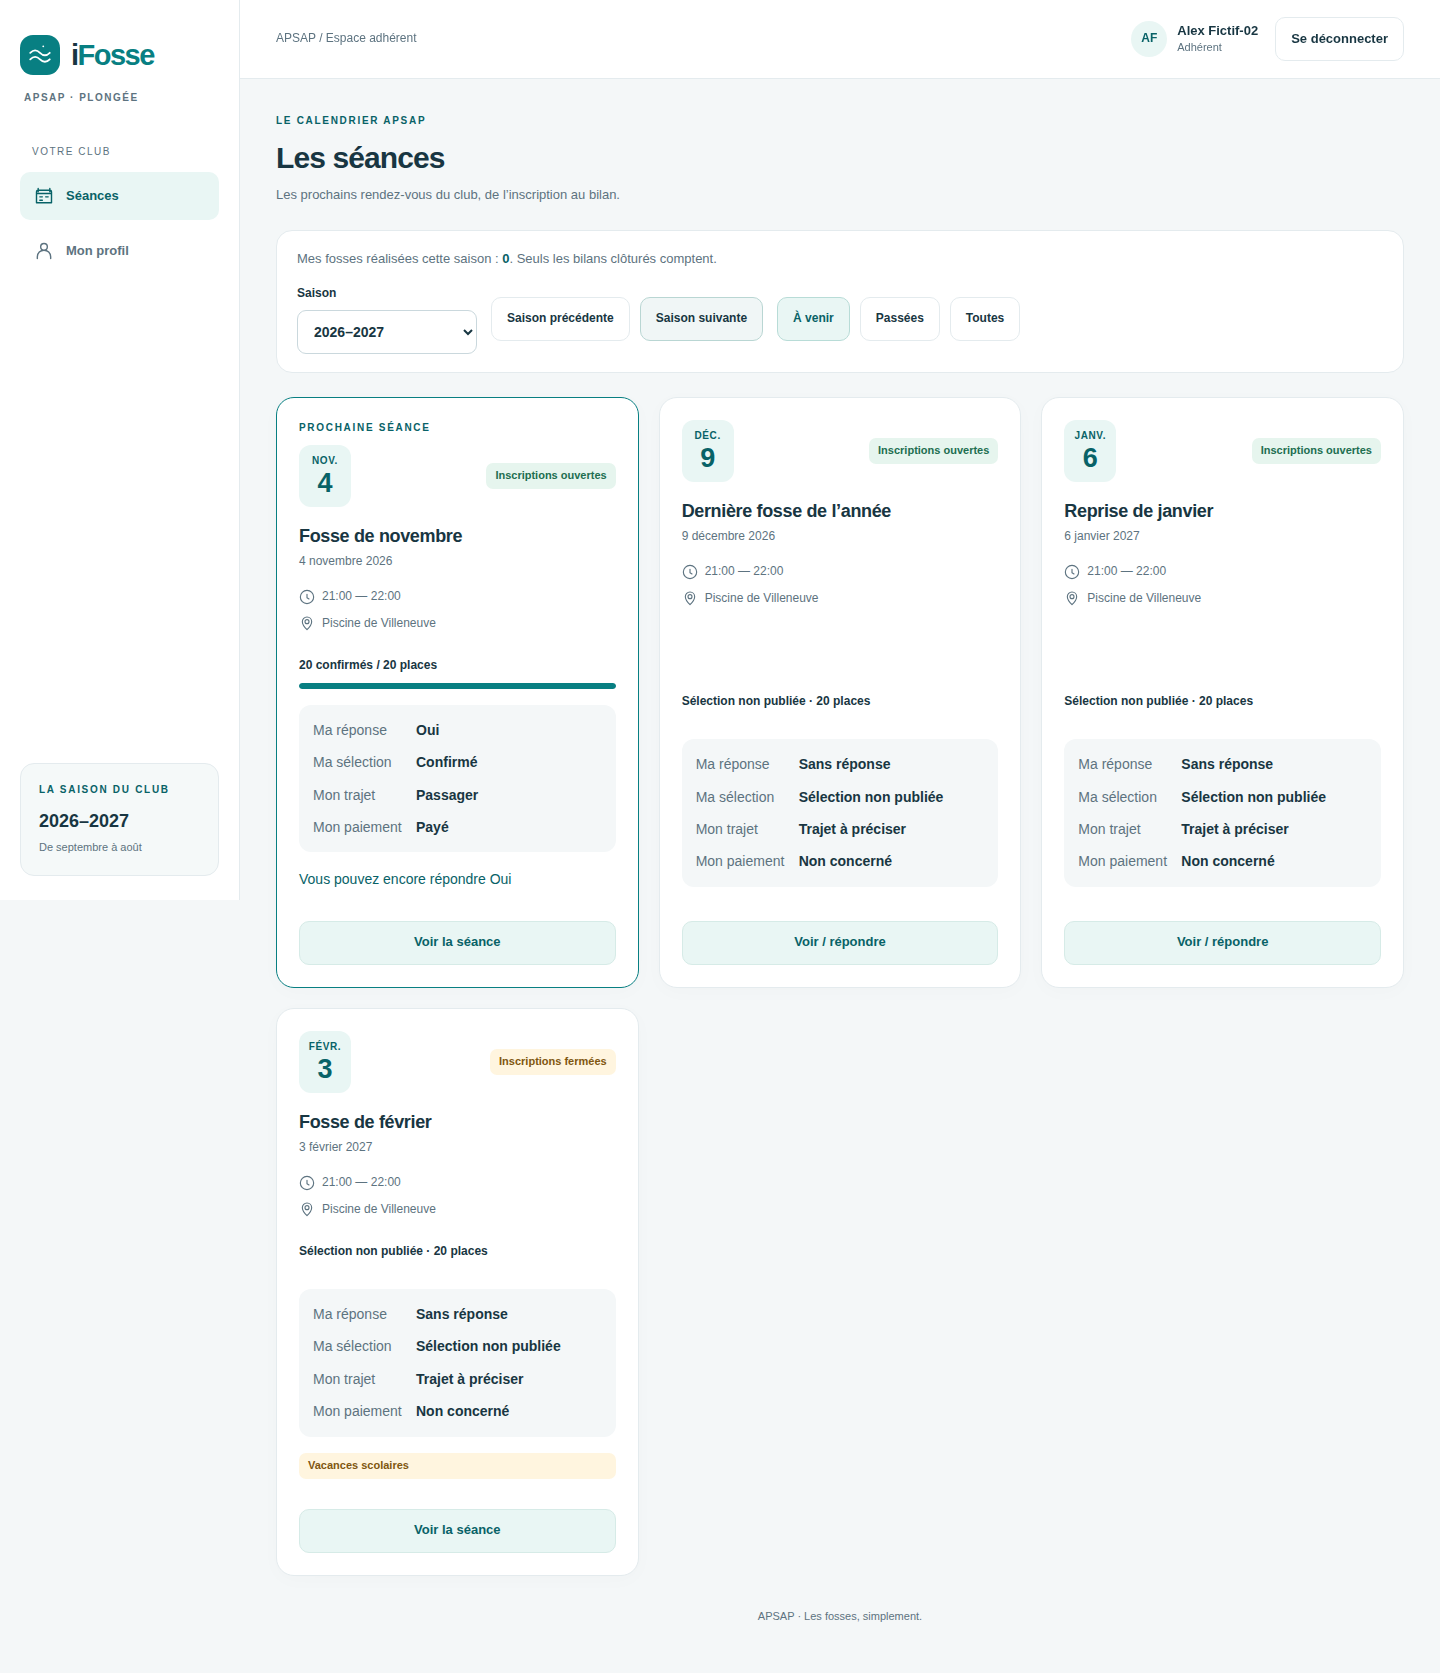
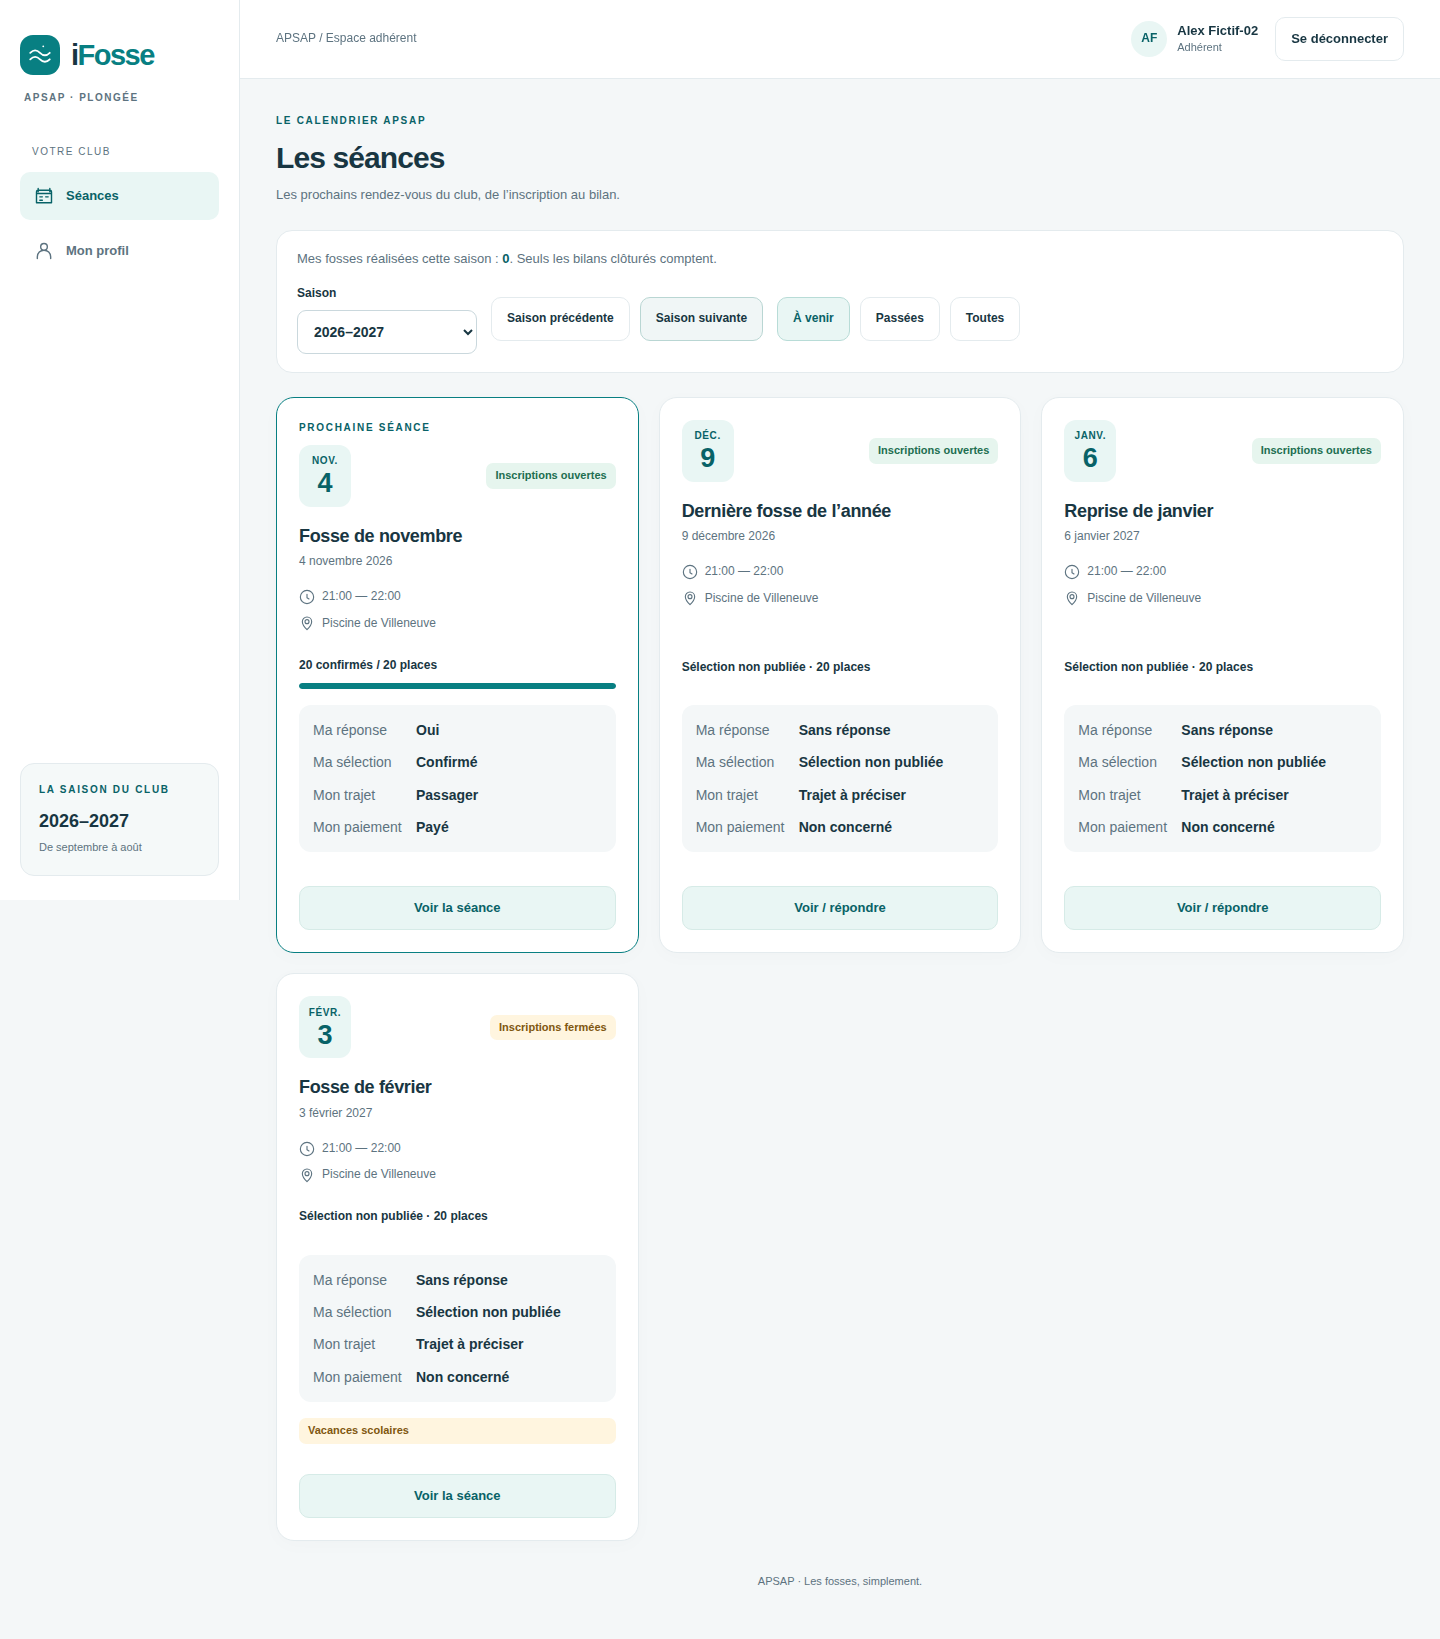
Hide full-selection RSVP hint when already answering Yes

diff --git a/src/features/sessions/Sessions.test.tsx b/src/features/sessions/Sessions.test.tsx
@@ -11,10 +11,10 @@ afterEach(cleanup)
 const member = { id: 'self', role: 'member' } as Member
 const sessions = Array.from({ length: 20 }, (_, index) => ({ id: `s${index}`, date: todayParis(), start_time: '20:00', end_time: '21:00', title: `Séance ${index}`, status: 'open', registration_open: true, capacity: 20 })) as Session[]
 const summaries: CardSummary[] = sessions.map(row => ({ session_id: row.id, capacity: 20, confirmed_count: 20, publication_version: 1, my_rsvp: 'yes', my_selection_state: 'selected', my_transport_mode: 'own', my_transport_provisional: false, my_payment_status: 'paid' }))
-function setup(initialFailure = false) {
+function setup(initialFailure = false, cards = summaries) {
   let fail = initialFailure
   let oldSchema = false
-  const rpc = vi.fn(async (name: string) => ({ data: name === 'get_season_counts' ? [{ member_id: 'self', completed_count: 3 }] : oldSchema ? summaries.map(row => ({ ...row, my_rsvp: undefined })) : summaries, error: fail ? { message: 'offline' } : null }))
+  const rpc = vi.fn(async (name: string) => ({ data: name === 'get_season_counts' ? [{ member_id: 'self', completed_count: 3 }] : oldSchema ? cards.map(row => ({ ...row, my_rsvp: undefined })) : cards, error: fail ? { message: 'offline' } : null }))
   const query = { select: () => query, gte: () => query, lt: () => query, order: (field: string) => field === 'start_time' ? Promise.resolve({ data: sessions, error: null }) : query }
   const from = vi.fn(() => query)
   const client = { from, rpc } as unknown as SupabaseClient<Database>
@@ -29,7 +29,7 @@ it('loads twenty personal cards in one batched request, highlights once and defa
   expect(app.rpc).toHaveBeenCalledWith('get_session_card_summaries', expect.anything())
   expect(screen.getByText('Prochaine séance')).toBeTruthy()
   expect(screen.getByRole('button', { name: 'À venir' }).getAttribute('aria-pressed')).toBe('true')
-  expect(screen.getAllByText('Vous pouvez encore répondre Oui')).toHaveLength(20)
+  expect(screen.queryByText('Vous pouvez encore répondre Oui')).toBeNull()
   fireEvent.click(screen.getByRole('button', { name: 'Passées' }))
   expect(screen.getByText('Aucune séance passée dans cette saison.')).toBeTruthy()
   expect(screen.queryByText('Prochaine séance')).toBeNull()
@@ -69,4 +69,10 @@ it('hides old season cards and counters when loading another season fails', asyn
   await waitFor(() => expect(screen.getByRole('alert')).toBeTruthy())
   expect(screen.queryByText('Payé')).toBeNull()
   expect(screen.getByText(/Mes fosses réalisées/).textContent).toContain('…')
+})
+
+it.each(['unanswered', 'maybe', 'no'] as const)('keeps the full-selection invitation relevant for response %s', async rsvp => {
+  setup(false, summaries.map(row => ({ ...row, my_rsvp: rsvp, my_selection_state: 'none', my_payment_status: rsvp === 'maybe' ? 'unpaid' : null })))
+  await waitFor(() => expect(screen.getAllByLabelText('Mes statuts pour cette séance')).toHaveLength(20))
+  expect(screen.getAllByText('Vous pouvez encore répondre Oui')).toHaveLength(20)
 })

diff --git a/e2e/calendar-personal.spec.ts b/e2e/calendar-personal.spec.ts
@@ -45,7 +45,7 @@ test('personal calendar follows publication and transport across devices without
     ok(await client.rpc('publish_selection', { p_session_id: id }))
     await expect(card.getByText('Confirmé', { exact: true })).toBeVisible({ timeout: 12000 })
     await expect(card.getByText('Provisoire · conducteur non confirmé', { exact: true })).toBeVisible()
-    await expect(card.getByText('Vous pouvez encore répondre Oui', { exact: true })).toBeVisible()
+    await expect(card.getByText('Vous pouvez encore répondre Oui', { exact: true })).toHaveCount(0)
     ok(await client.rpc('set_draft_selection', { p_session_id: id, p_member_id: member.memberId, p_state: 'waiting' }))
     // A subsequent published payment update triggers a fresh snapshot; private selection still does not leak.
     ok(await client.rpc('set_payment_status', { p_session_id: id, p_member_id: member.memberId, p_status: 'paid' }))
@@ -61,6 +61,7 @@ test('personal calendar follows publication and transport across devices without
     ok(await own.rpc('set_session_rsvp', { p_session_id: id, p_member_id: member.memberId, p_rsvp: 'no' }))
     await expect(card.getByText('Non', { exact: true })).toBeVisible({ timeout: 12000 })
     await expect(card.getByText('Non concerné', { exact: true })).toBeVisible()
+    await expect(card.getByText('Vous pouvez encore répondre Oui', { exact: true })).toBeVisible()
     await other.getByRole('button', { name: 'Passées', exact: true }).click()
     // The previous date may belong to the preceding season on September 1.
     if (today.slice(5) === '09-01') await other.getByRole('button', { name: 'Saison précédente', exact: true }).click()

diff --git a/src/features/sessions/Sessions.tsx b/src/features/sessions/Sessions.tsx
@@ -149,7 +149,7 @@ export function Sessions({ client, member, refreshMember }: { client: SupabaseCl
         <div className="session-card-top"><DateTile date={item.date} /><span className={`chip ${item.status === 'closed' ? 'neutral' : item.registration_open ? 'green' : 'amber'}`}>{item.status === 'closed' ? 'Bilan clôturé' : item.registration_open ? 'Inscriptions ouvertes' : 'Inscriptions fermées'}</span></div>
         <h3>{item.title}</h3><p className="session-date">{formatDate(item.date)}</p><p className="meta"><Icon name="clock" />{item.start_time.slice(0, 5)} — {item.end_time.slice(0, 5)}</p><p className="meta"><Icon name="pin" />{item.venue || 'Lieu à préciser'}</p>
         <PublishedOccupancy summary={summary} /><PersonalStatus summary={summary} />
-        {item.status !== 'closed' && item.registration_open && summary.publication_version > 0 && summary.confirmed_count >= summary.capacity && <p className="calendar-hint">Vous pouvez encore répondre Oui</p>}
+        {summary.my_rsvp !== 'yes' && item.status !== 'closed' && item.registration_open && summary.publication_version > 0 && summary.confirmed_count >= summary.capacity && <p className="calendar-hint">Vous pouvez encore répondre Oui</p>}
         {item.school_holiday && <p className="badge">Vacances scolaires</p>}
         <button className="session-open" onClick={() => { setEntryTab(action.tab); setSelected(item.id); window.scrollTo({ top: 0 }) }} aria-label={`${action.label} · séance du ${formatDate(item.date)}`}>{action.label}</button>
       </article>

diff --git a/e2e/visual-acceptance.spec.ts b/e2e/visual-acceptance.spec.ts
@@ -72,7 +72,7 @@ test('realistic club volumes retain desktop/mobile layout, keyboard tabs and rol
     await expect(memberPage.locator('.session-card')).toHaveCount(4, { timeout: 12000 })
     await expect(memberPage.getByText('20 confirmés / 20 places', { exact: true })).toBeVisible({ timeout: 12000 })
     await expect(memberPage.getByRole('button', { name: 'Administration', exact: true })).toHaveCount(0)
-    await expect(memberPage.getByText('Vous pouvez encore répondre Oui', { exact: true })).toBeVisible()
+    await expect(memberPage.getByText('Vous pouvez encore répondre Oui', { exact: true })).toHaveCount(0)
     await expect(memberPage.locator('.personal-status')).toHaveCount(4)
     await expect(memberPage.getByText('Prochaine séance', { exact: true })).toHaveCount(1)
     await capture(memberPage, 'desktop-member-sessions')

diff --git a/docs/operator-guide.md b/docs/operator-guide.md
@@ -89,7 +89,7 @@ Un trajet passager ou conducteur reste **Provisoire** tant que le conducteur
 n’est pas confirmé. **Organiser mon trajet** ouvre directement Covoiturage sans
 réserver de place. Le paiement est « Non concerné » sans réponse ou avec Non.
 Une sélection pleine n’empêche pas de répondre Oui si les inscriptions restent
-ouvertes. En cas d’échec d’actualisation, lire l’avertissement : les données
+ouvertes. Le rappel disparaît lorsque votre réponse est déjà Oui. En cas d’échec d’actualisation, lire l’avertissement : les données
 précédentes restent affichées et **Réessayer** relance leur chargement.
 
 Recette locale avec identités fictives : observer les cartes sur deux appareils,

diff --git a/docs/specs.md b/docs/specs.md
@@ -394,7 +394,8 @@ sont ouvertes, « Organiser mon trajet » pour Oui avec trajet absent ou proviso
 toujours la consultation. Organiser ouvre Covoiturage sans réserver ni modifier
 le trajet. Aucun paiement ne prend la priorité dans cette action.
 Une sélection pleine ne ferme pas les inscriptions : la carte rappelle
-« Vous pouvez encore répondre Oui » tant qu’elles sont ouvertes.
+« Vous pouvez encore répondre Oui » tant qu’elles sont ouvertes, uniquement si
+la réponse personnelle n’est pas déjà Oui (sans réponse, Peut-être ou Non).
 
 L’actualisation partagée conserve les dernières données valides lors d’un
 échec et signale qu’elles ne sont pas actualisées. Avant la première réponse du

diff --git a/docs/reviews/issue-48/README.md b/docs/reviews/issue-48/README.md
@@ -14,7 +14,8 @@ Les autres séances n’ont pas encore de réponse/publication.
 - [Téléphone : viewport 390×844, page entière](mobile-calendar.png)
 
 Inspection : une seule prochaine séance, quatre statuts personnels lisibles,
-occupation publiée, rappel des inscriptions possibles malgré la sélection pleine,
+occupation publiée, rappel des inscriptions possibles malgré la sélection pleine seulement sans
+réponse Oui préalable (absent sur ces captures),
 filtres séparés des saisons et action principale unique. La suite vérifie aussi
 l’absence de débordement horizontal et les contrôles d’au moins 44 px ; les tests
 existants de focus et navigation clavier restent exécutés.
